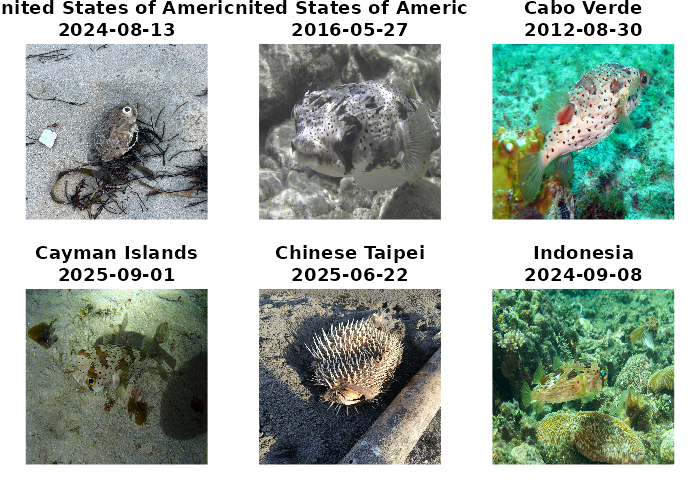
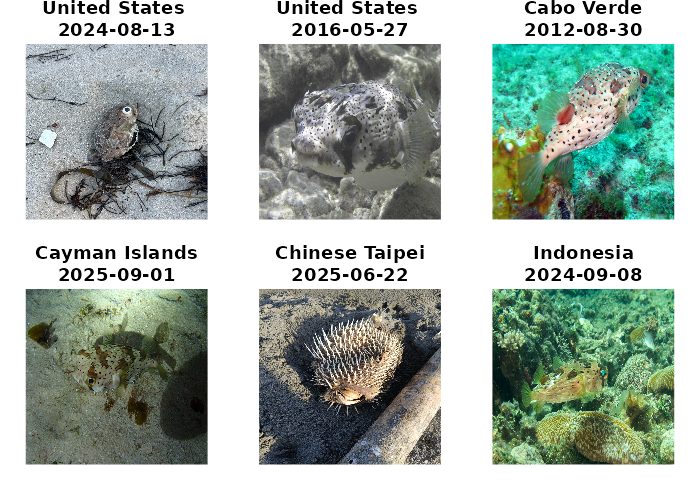
Deploying to gh-pages from @ maRce10/suwo@cc8d907a040f62b3edd7f3d979c1fd8d6a29d455 🚀

Changed region(s): [[0.0, 0.0, 0.66, 0.0306]]

diff --git a/articles/suwo.html b/articles/suwo.html
@@ -3597,7 +3597,7 @@ saved
 <p>… and check that the files were saved in the path supplied:</p>
 <div class="sourceCode" id="cb22"><pre class="downlit sourceCode r">
 <code class="sourceCode R"><span><span class="fu">fs</span><span class="fu">::</span><span class="fu"><a href="https://fs.r-lib.org/reference/dir_tree.html" class="external-link">dir_tree</a></span><span class="op">(</span>path <span class="op">=</span> <span class="va">out_folder</span><span class="op">)</span></span></code></pre></div>
-<pre><code> /tmp/Rtmp09qThK/amanita_zambiana 
+<pre><code> /tmp/RtmpNMsz76/amanita_zambiana 
 ├──  Amanita_zambiana-GBIF3759537817-1.jpeg 
 ├──  Amanita_zambiana-GBIF3759537817-2.jpeg 
 ├──  Amanita_zambiana-GBIF4430877067-1.jpeg 
@@ -3658,7 +3658,7 @@ sub-directories by country (for simplicity only 6 of them):</p>
 <span>                             folder_by <span class="op">=</span> <span class="st">"country"</span><span class="op">)</span></span></code></pre></div>
 <div class="sourceCode" id="cb26"><pre class="downlit sourceCode r">
 <code class="sourceCode R"><span><span class="fu">fs</span><span class="fu">::</span><span class="fu"><a href="https://fs.r-lib.org/reference/dir_tree.html" class="external-link">dir_tree</a></span><span class="op">(</span>path <span class="op">=</span> <span class="va">out_folder</span><span class="op">)</span></span></code></pre></div>
-<pre><code> /tmp/Rtmp09qThK/diodon_holocanthus 
+<pre><code> /tmp/RtmpNMsz76/diodon_holocanthus 
 ├──  Cabo Verde 
 │   └──  Diodon_holocanthus-GBIF3985886532.jpeg 
 ├──  Cayman Islands 
@@ -3695,7 +3695,7 @@ fun):</p>
 <span>  <span class="op">)</span></span>
 <span>  <span class="fu"><a href="https://rdrr.io/r/graphics/rasterImage.html" class="external-link">rasterImage</a></span><span class="op">(</span><span class="va">img</span>, <span class="fl">1</span>, <span class="fl">1</span>, <span class="fl">2</span>, <span class="fl">2</span><span class="op">)</span></span>
 <span>  <span class="fu"><a href="https://rdrr.io/r/graphics/title.html" class="external-link">title</a></span><span class="op">(</span>main <span class="op">=</span> <span class="fu"><a href="https://rdrr.io/r/base/paste.html" class="external-link">paste</a></span><span class="op">(</span></span>
-<span>    <span class="va">dhol_files</span><span class="op">$</span><span class="va">country</span><span class="op">[</span><span class="va">i</span><span class="op">]</span>,</span>
+<span>    <span class="fu"><a href="https://rdrr.io/r/base/substr.html" class="external-link">substr</a></span><span class="op">(</span><span class="va">dhol_files</span><span class="op">$</span><span class="va">country</span><span class="op">[</span><span class="va">i</span><span class="op">]</span>, start <span class="op">=</span> <span class="fl">1</span>, stop <span class="op">=</span> <span class="fl">14</span><span class="op">)</span>,</span>
 <span>    <span class="va">dhol_files</span><span class="op">$</span><span class="va">date</span><span class="op">[</span><span class="va">i</span><span class="op">]</span>,</span>
 <span>    sep <span class="op">=</span> <span class="st">"\n"</span></span>
 <span>  <span class="op">)</span><span class="op">)</span></span>
